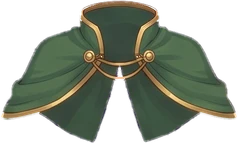
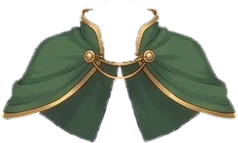
fix(rig): neck goes down into the capelet collar
The collar's inside back (lining and back rim) was painted into the capelet,
so it drew in front of the neck and the neck looked perched on the collar.
The lining is split into its own layer drawn behind the neck, and the torso
now draws in front of the neck's lower end.

Claude-Session: https://claude.ai/code/session_0178JCr5DuUpPvDwy7b6AxGM

Changed region(s): [[0.3235, 0.0, 0.6765, 0.4476]]

diff --git a/sw.js b/sw.js
@@ -66,7 +66,8 @@ const PRECACHE_URLS = [
   "./assets/art/avatar/expressions/head_surprised.webp?v=2",
   "./assets/art/avatar/front/bag.webp",
   "./assets/art/avatar/front/cape.webp",
-  "./assets/art/avatar/front/capelet.webp",
+  "./assets/art/avatar/front/capelet.webp?v=2",
+  "./assets/art/avatar/front/capelet_inner.webp?v=2",
   "./assets/art/avatar/front/forearm_left.webp",
   "./assets/art/avatar/front/forearm_right.webp",
   "./assets/art/avatar/front/hair_back.webp",

diff --git a/tools/neck_fit.py b/tools/neck_fit.py
@@ -73,3 +73,36 @@ if __name__ == "__main__":
     feather_stub(ROOT / "tools/rig_src/front_head.webp", ROOT / "assets/art/avatar/front/head.webp")
     for src in sorted((ROOT / "tools/rig_src").glob("expressions_*.webp")):
         feather_stub(src, ROOT / "assets/art/avatar/expressions" / src.name.replace("expressions_", ""))
+
+
+def split_collar(src: Path, inner_dst: Path, outer_dst: Path, tol: float = 38) -> None:
+    """Split the capelet's stand collar so the neck can sit inside it: the
+    collar's inner back (dark lining + back rim) becomes its own layer drawn
+    behind the neck; the trimmed front edges stay in front."""
+    from scipy import ndimage as nd
+    a = np.array(Image.open(src).convert("RGBA")).astype(float)
+    h, w = a.shape[:2]
+    seed = (int(h * 0.12), w // 2)
+    d = np.sqrt(((a[..., :3] - a[seed][:3]) ** 2).sum(-1))
+    lab, _ = nd.label((d < tol) & (a[..., 3] > 200))
+    comp = lab == lab[seed]
+    ys, xs = np.where(comp)
+    top = ys.min()
+    band = comp[top:top + 8].any(0)
+    x0, x1 = np.where(band)[0][[0, -1]]
+    rim = np.zeros_like(comp)
+    rim[:top + 3, max(0, x0 - 3):x1 + 4] = True
+    mask = nd.binary_fill_holes(nd.binary_dilation(comp, iterations=1)) | (rim & (a[..., 3] > 0))
+    soft = nd.gaussian_filter(mask.astype(float), 0.7)
+    inner, outer = a.copy(), a.copy()
+    inner[..., 3] *= soft
+    outer[..., 3] *= 1 - soft
+    for arr, dst in ((inner, inner_dst), (outer, outer_dst)):
+        Image.fromarray(arr.clip(0, 255).astype(np.uint8)).save(dst, "WEBP", quality=92, method=6)
+    print("collar lining rows", top, "-", ys.max(), "cols", x0, "-", x1)
+
+
+if __name__ == "__main__":
+    split_collar(ROOT / "tools/rig_src/front_capelet.webp",
+                 ROOT / "assets/art/avatar/front/capelet_inner.webp",
+                 ROOT / "assets/art/avatar/front/capelet.webp")
